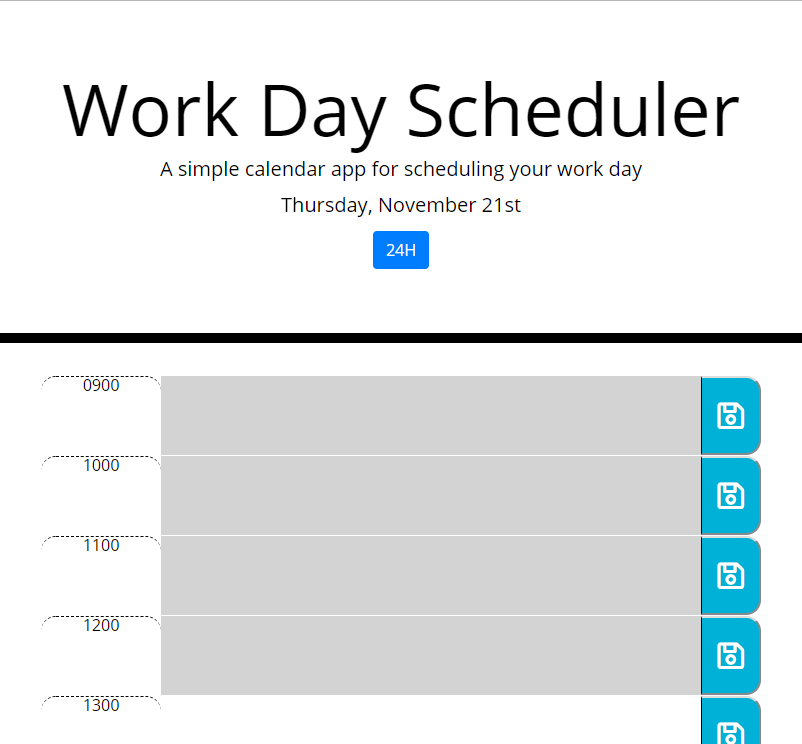
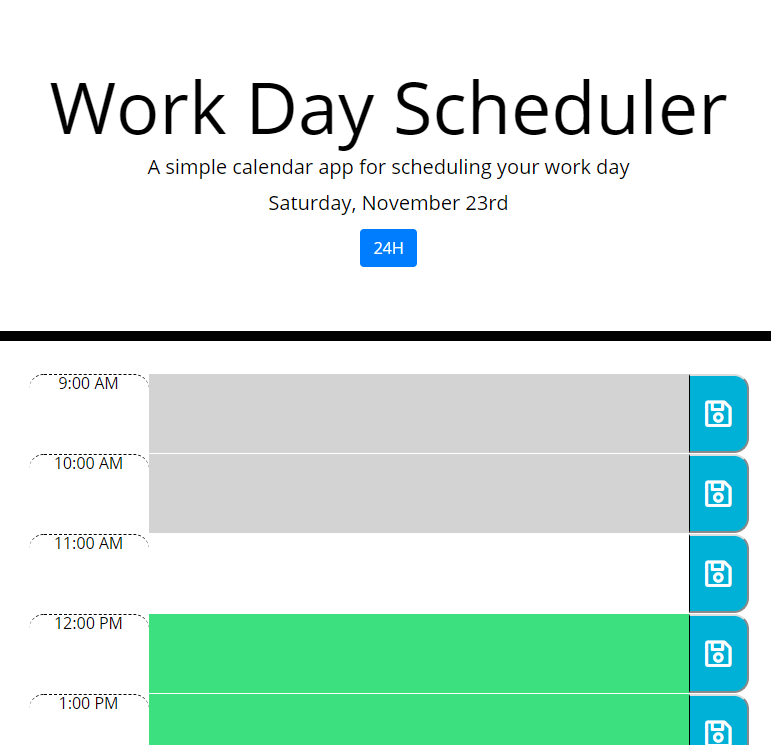
Updated README with additional detail. Updated pictures to include 12H button. Updated renderCalendar section to remove the .add method from the code used to add colors to inputs. .add was previously used to test the colors at different times.

diff --git a/assets/scripts/script.js b/assets/scripts/script.js
@@ -80,16 +80,6 @@ function initiatePlanner() {
         // Creates said array
         // -- i starts at 9 and ends at 17 to create the hours 9am - 5pm
         for(let i=9; i <= 17; i++){
-            // t is used as an integer of time
-            // let t = i;
-            // converts t into a string, switches it from 24h to 12h, and adds AM/PM
-            // if(t > 11){
-            //     t = t-12;
-            //     t = (t.toString()+" PM");
-            // }else{
-            //     t = (t.toString()+" AM");
-            // };
-            // Creates an object for the hour
             let t = moment(i, "H").format("h:mm A");
             let singleHour = {
                 date: currentDateHour().date,
@@ -147,13 +137,13 @@ function initiatePlanner() {
             activityInput.classList.add('description')
             
             // Styles inputs based on time of day. Past is gray, present is white, future is green
-            if(hours[i].time < moment().add(14,'hours').format("k")){
+            if(hours[i].time < moment().format("k")){
                 activityInput.classList.add('past')
             }
-            if(hours[i].time === moment().add(14,'hours').format("k")){
+            if(hours[i].time === moment().format("k")){
                 activityInput.classList.add('present')
             }
-            if(hours[i].time > moment().add(14,'hours').format("k")){
+            if(hours[i].time > moment().format("k")){
                 activityInput.classList.add('future')
             }
             

diff --git a/README.md b/README.md
@@ -3,6 +3,9 @@
 ## Description 
 This repository is used to create a day planner. The calendar renders based on data in local storage. If there is no data in local storage, the calendar renders with all the input sections blank. The inputs can be filled in and saved at any time. The input is color coded based on current time. The blue button at the top allows the user to switch the time format.
 
+## Live site: 
+https://sirpotatoiv.github.io/day-planner/
+
 ## Images
 Starting View:
 
@@ -15,8 +18,6 @@ Starting View with info:
 Full calendar View:
 
 ![Example of view when game is over](./assets/example-images/full-view-w-info.png)
-
-
 
 ## Installation 
 If all files are kept in a single folder a web browser should be able to run the project and you have an internet connection.
@@ -31,10 +32,10 @@ I created this code based on the homework prompt created by Triology Education S
 I was the only one to work on this project, but of course I had help from my instructor, TA's, and classmates.
 
 ## Challenges
-To be added in future.
+The big listen learned was always complete all the work necessary to meet the requirements of the homework before adding additional features that are not needed. I ended up trying to add a feature before this README was created very close to the deadline for this assignment. I also broke my code, change so areas of code that were not part of the new feature, and ran out of time to meet the requirements for a perfectly good project. Scope creep is real.
 
-## Live site: 
-https://sirpotatoiv.github.io/day-planner/
+From a coding perspective I struggled with figuring out how to setup an event listener of a dynamically created button to get the value from a specific dynamically created input. The trick was using event, which I luckily accidently learned through an activity the night before. The concept of the variable from an event listener called event is still very new to me. I also ran into an issue with my code in the event listener running into an error and breaking the code at what seemed to be purely random. The root cause of the issue was that I had an icon element as a child to a button element. I did not realize that an icon element could be clicked and it would trigger the buttons event listener. This caused the variable "event" to have object properties related to the icon and not the button. The object and properties did not line up the same way as the button causing the code to break. I negated this by adding the icon classes to the button causing the icon image to show up in the button and removed the icon element. 
+
 
 ## License
 [MIT](https://choosealicense.com/licenses/mit/)
